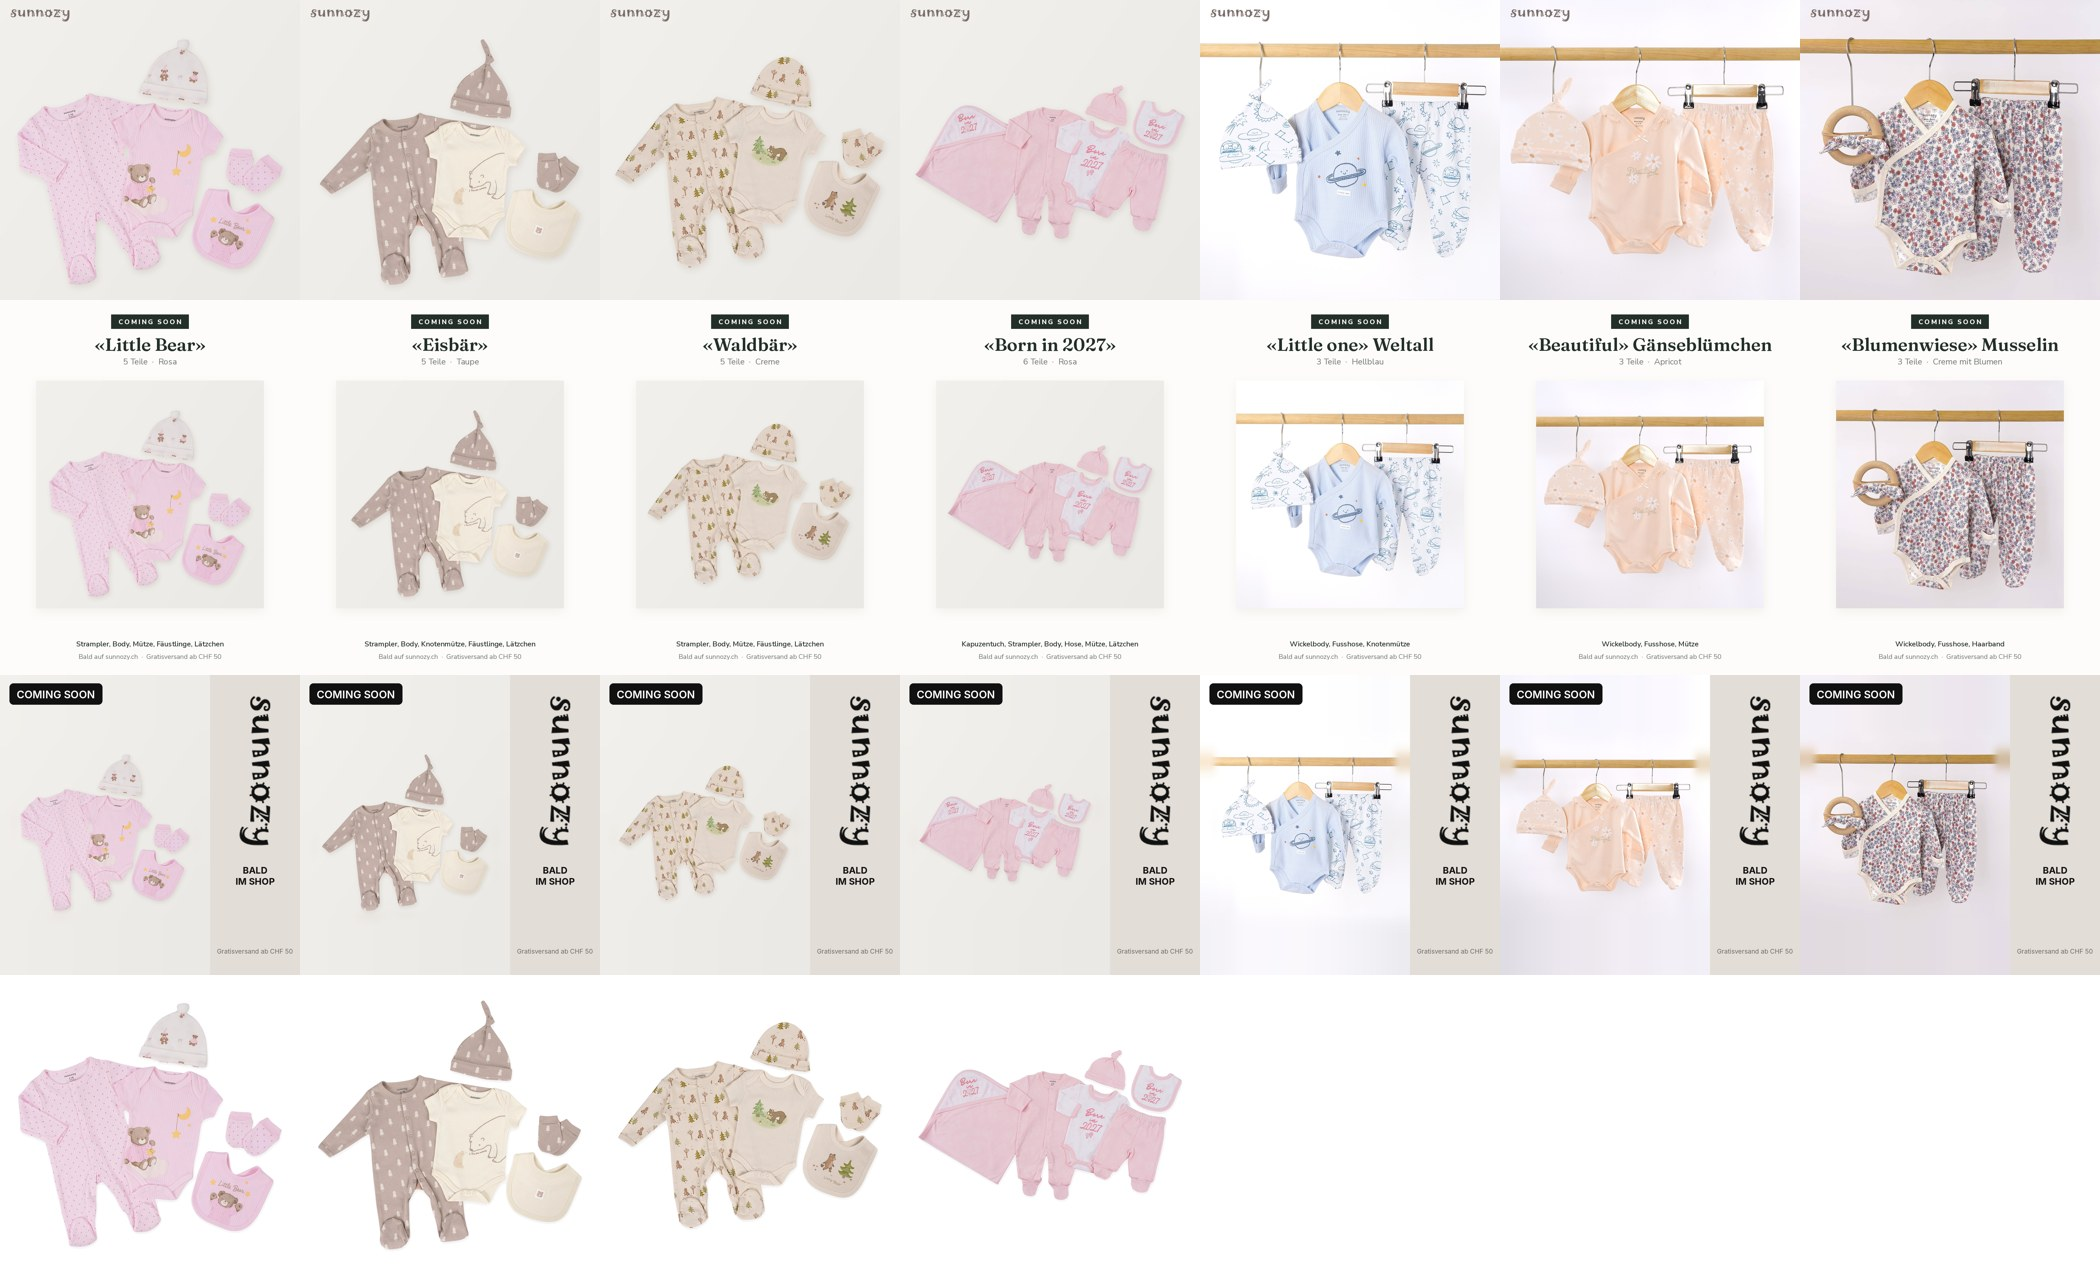
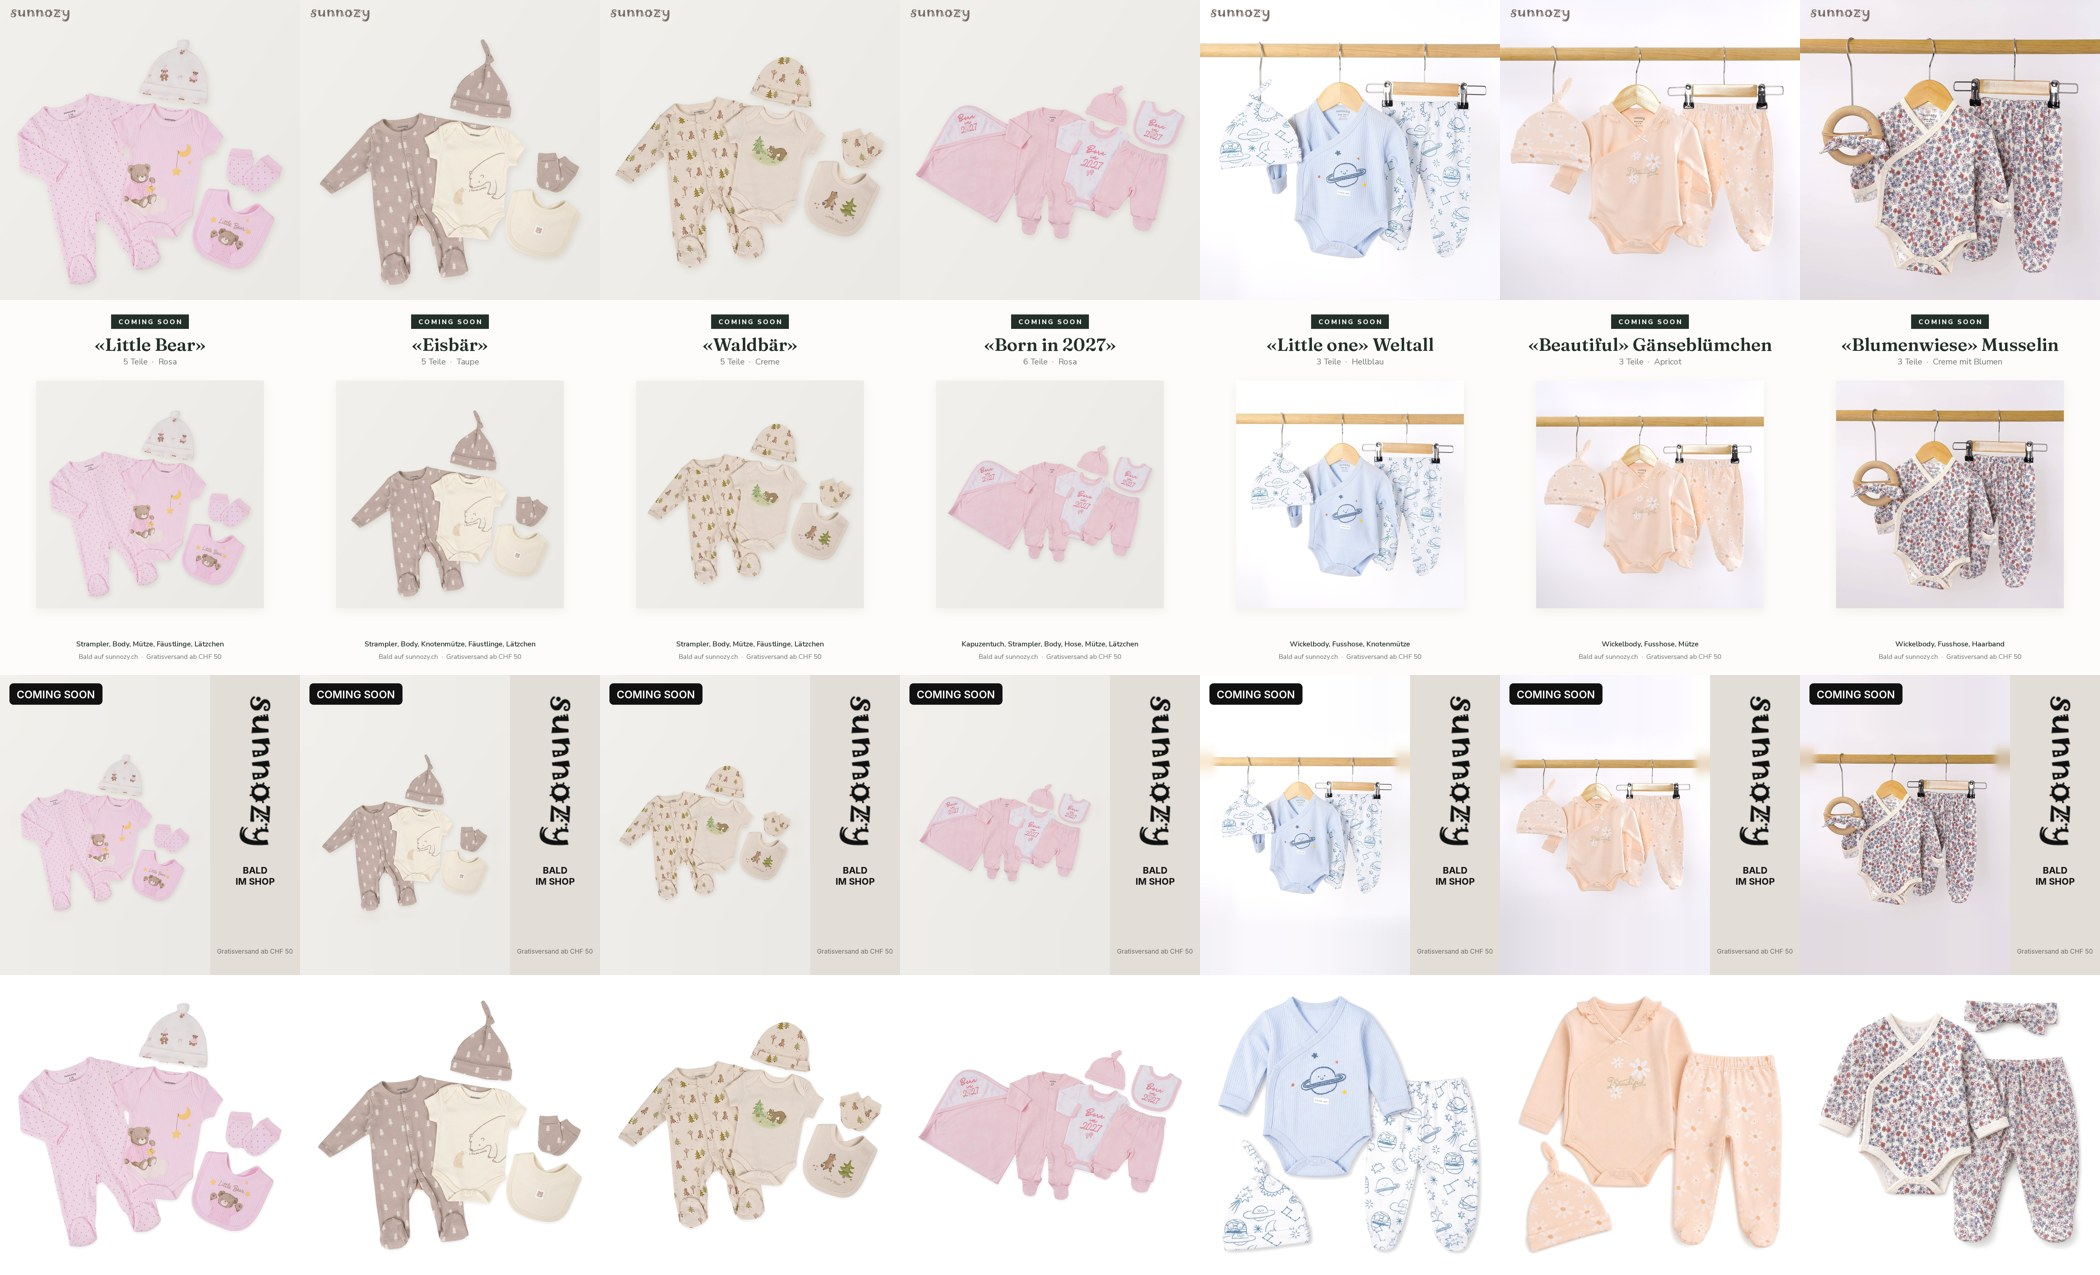
Coming soon: Präsentationen, Baby-Fotos, Baby-Anzeigen und Marktplatz-Bilder (Canva-KI) für die 7 neuen Sets
Claude-Session: https://claude.ai/code/session_01Mcsz2CcqhytaxPLftYR6o2

Changed region(s): [[0.5571, 0.7647, 0.9905, 0.9788]]

diff --git a/sunnozy-content/tools/make_coming_soon_set.py b/sunnozy-content/tools/make_coming_soon_set.py
@@ -14,7 +14,14 @@ Danach je Set:
   ads/<set>_meta_9x16.jpg        Story/Reels-Platzierung
 Look nach dem sunnozy-Designsystem: Creme, Waldgruen, Salbei, Fraunces und Nunito Sans, keine Emojis.
 
-Aufruf: python3 make_coming_soon_set.py <set-schluessel> <ausgabeordner>
+Mit KI=<ordner> (Canva-Export: praes_<set>.png, baby_<set>.png, markt_<set>.png) zusaetzlich:
+  praesentation/<set>_praesentation.jpg (+ _ohne_logo)  Holzbuegel-Praesentation 2048 px, Logo oben links
+  marktplatz/<set>_hauptbild_weiss.jpg                   nur Stangen-Sets: KI-Flatlay auf reinweiss 2000 px
+  instagram/<set>_baby_4x5.jpg                           Baby im Set, ohne Text
+  instagram/<set>_baby_coming_soon_4x5.jpg               dasselbe mit Etikett «Coming soon» und Setname
+  ads/<set>_meta_baby_4x5.jpg                            Meta-Feed 4:5 mit Baby-Foto und Versand-Band
+
+Aufruf: [FREI=<ordner>] [KI=<ordner>] python3 make_coming_soon_set.py <set-schluessel> <ausgabeordner>
 """
 import os, sys
 import numpy as np
@@ -206,6 +213,46 @@ def meta_story(foto, W=1080, H=1920):
     return c
 
 
+def weiss_hauptbild(png, S=2000, fill=0.88):
+    """KI-Flatlay auf (fast) weissem Grund -> reinweiss 255, Produkt auf 88 % der laengeren Seite."""
+    a = np.asarray(Image.open(png).convert('RGB')).astype(float)
+    mn = a.min(axis=2)
+    w = np.clip((mn - 236) / (250 - 236), 0, 1)[..., None]          # 236..250 weich nach 255 ziehen
+    a = a * (1 - w) + 255 * w
+    im = Image.fromarray(a.astype(np.uint8))
+    ys, xs = np.where(np.asarray(im.convert('L')) < 248)
+    im = im.crop((xs.min(), ys.min(), xs.max() + 1, ys.max() + 1))
+    k = S * fill / max(im.size)
+    im = im.resize((round(im.width * k), round(im.height * k)), Image.LANCZOS)
+    c = Image.new('RGB', (S, S), (255, 255, 255)); c.paste(im, ((S - im.width) // 2, (S - im.height) // 2))
+    return c.filter(ImageFilter.UnsharpMask(radius=1.2, percent=40, threshold=3))
+
+
+def baby_coming_soon(st, baby, W=1080, H=1350):
+    c = baby.resize((W, H), Image.LANCZOS).filter(ImageFilter.UnsharpMask(radius=1.0, percent=40, threshold=2))
+    lay = Image.new('RGBA', (W, H), (0, 0, 0, 0)); d = ImageDraw.Draw(lay)
+    bw, bh = 640, 190; x0, y0 = (W - bw) / 2, H - 60 - bh
+    d.rectangle([x0, y0, x0 + bw, y0 + bh], fill=CREME + (238,))
+    c = Image.alpha_composite(c.convert('RGBA'), lay).convert('RGB'); d = ImageDraw.Draw(c)
+    stempel(d, (W / 2, y0 + 48), groesse=20)
+    d.text((W / 2, y0 + 112), st['titel'], font=f('fraunces-600.ttf', 50), fill=WALD, anchor='mm')
+    d.text((W / 2, y0 + 160), 'Bald auf sunnozy.ch', font=f('nunitosans-400.ttf', 24), fill=GRAU, anchor='mm')
+    return c
+
+
+def meta_baby(baby, W=1080, H=1350):
+    c = Image.new('RGB', (W, H), 'white'); band = 1150
+    b = baby.resize((W, round(baby.height * W / baby.width)), Image.LANCZOS)
+    c.paste(b.crop((0, (b.height - band) // 2, W, (b.height - band) // 2 + band)), (0, 0))
+    badge(c, (34, 30), 'COMING SOON')
+    d = ImageDraw.Draw(c); d.rectangle([0, band, W, H], fill=PANEL)
+    lg = logo(250, INK); c.paste(lg, (50, int(band + (H - band - lg.height) / 2)), lg)
+    fb = ImageFont.truetype(INTER.format('Bold'), 32); fs = ImageFont.truetype(INTER.format('Regular'), 23)
+    d.text((W - 50, band + 78), 'BALD IM SHOP', font=fb, fill=INK, anchor='rm')
+    d.text((W - 50, band + 128), 'Gratisversand ab CHF 50', font=fs, fill=PGRAU, anchor='rm')
+    return c
+
+
 if __name__ == '__main__':
     key, out = sys.argv[1:3]
     frei_dir = os.environ.get('FREI', '')
@@ -222,4 +269,18 @@ if __name__ == '__main__':
     story(st, roh).save(os.path.join(out, 'instagram', f'{key}_story_9x16.jpg'), quality=94)
     meta_karte(roh).save(os.path.join(out, 'ads', f'{key}_meta_1x1.jpg'), quality=95, subsampling=0)
     meta_story(roh).save(os.path.join(out, 'ads', f'{key}_meta_9x16.jpg'), quality=95, subsampling=0)
+    ki = os.environ.get('KI', '')
+    if ki:
+        os.makedirs(os.path.join(out, 'praesentation'), exist_ok=True)
+        pr = Image.open(os.path.join(ki, f'praes_{key}.png')).convert('RGB').filter(ImageFilter.UnsharpMask(radius=1.4, percent=45, threshold=2))
+        pr.save(os.path.join(out, 'praesentation', f'{key}_praesentation_ohne_logo.jpg'), quality=95)
+        mit_logo(pr).save(os.path.join(out, 'praesentation', f'{key}_praesentation.jpg'), quality=95)
+        mk = os.path.join(ki, f'markt_{key}.png')
+        if os.path.exists(mk):
+            os.makedirs(os.path.join(out, 'marktplatz'), exist_ok=True)
+            weiss_hauptbild(mk).save(os.path.join(out, 'marktplatz', f'{key}_hauptbild_weiss.jpg'), quality=95)
+        baby = Image.open(os.path.join(ki, f'baby_{key}.png')).convert('RGB')
+        baby.resize((1080, 1350), Image.LANCZOS).save(os.path.join(out, 'instagram', f'{key}_baby_4x5.jpg'), quality=94)
+        baby_coming_soon(st, baby).save(os.path.join(out, 'instagram', f'{key}_baby_coming_soon_4x5.jpg'), quality=94)
+        meta_baby(baby).save(os.path.join(out, 'ads', f'{key}_meta_baby_4x5.jpg'), quality=95, subsampling=0)
     print(key)

diff --git a/sunnozy-content/posts/coming-soon/README.md b/sunnozy-content/posts/coming-soon/README.md
@@ -4,16 +4,16 @@
 |---|---|---|
 | `little-princess/` | «Little Princess» mit Krone, 8 Teile | Videos A–C und Kombi-Video, je 9:16 und 4:5 |
 | `gaensebluemchen/` | «Gänseblümchen», 8 Teile | Videos A–C, je 9:16 und 4:5 |
-| `little-bear-rosa/` | «Little Bear» Rosa, 5 Teile | Shop, Marktplatz, Einzelteile, Instagram, Meta-Ads |
-| `eisbaer-taupe/` | «Eisbär» Taupe, 5 Teile | Shop, Marktplatz, Einzelteile, Instagram, Meta-Ads |
-| `waldbaer-creme/` | «Waldbär» Creme, 5 Teile | Shop, Marktplatz, Einzelteile, Instagram, Meta-Ads |
-| `born-in-2027-rosa/` | «Born in 2027» Rosa, 6 Teile | Shop, Marktplatz, Einzelteile, Instagram, Meta-Ads |
-| `weltall-hellblau/` | «Little one» Weltall, 3 Teile | Shop, Instagram, Meta-Ads |
-| `gaensebluemchen-beautiful/` | «Beautiful» Gänseblümchen, 3 Teile | Shop, Instagram, Meta-Ads |
-| `blumen-musselin/` | «Blumenwiese» Musselin, 3 Teile | Shop, Instagram, Meta-Ads |
+| `little-bear-rosa/` | «Little Bear» Rosa, 5 Teile | Shop, Präsentation, Marktplatz, Einzelteile, Instagram, Baby-Fotos, Meta-Ads |
+| `eisbaer-taupe/` | «Eisbär» Taupe, 5 Teile | Shop, Präsentation, Marktplatz, Einzelteile, Instagram, Baby-Fotos, Meta-Ads |
+| `waldbaer-creme/` | «Waldbär» Creme, 5 Teile | Shop, Präsentation, Marktplatz, Einzelteile, Instagram, Baby-Fotos, Meta-Ads |
+| `born-in-2027-rosa/` | «Born in 2027» Rosa, 6 Teile | Shop, Präsentation, Marktplatz, Einzelteile, Instagram, Baby-Fotos, Meta-Ads |
+| `weltall-hellblau/` | «Little one» Weltall, 3 Teile | Shop, Präsentation, Marktplatz, Instagram, Baby-Fotos, Meta-Ads |
+| `gaensebluemchen-beautiful/` | «Beautiful» Gänseblümchen, 3 Teile | Shop, Präsentation, Marktplatz, Instagram, Baby-Fotos, Meta-Ads |
+| `blumen-musselin/` | «Blumenwiese» Musselin, 3 Teile | Shop, Präsentation, Marktplatz, Instagram, Baby-Fotos, Meta-Ads |
 | `originalFotos/` | Lieferantenfotos aller neuen Sets | Liste im README |
 
-`uebersicht_neue_sets.jpg` zeigt Shop-Bild, Instagram-Post und Meta-Anzeige der 7 neuen Sets.
+`uebersicht_neue_sets.jpg` zeigt Shop-Bild, Instagram-Post, Meta-Anzeige und Marktplatz-Bild der 7 neuen Sets, `uebersicht_ki.jpg` Präsentation, Baby-Post und Baby-Anzeige.
 
 In jedem Ordner: `original/` mit den Baby-Clips, die Videos, Titelbilder (`*_standbild.jpg`), `uebersicht.jpg` und ein README mit Bildunterschrift und Prüfpunkten. Sobald ein Set im Shop ist, die Videos mit Preis neu erzeugen (Befehl im README des Sets).
 

diff --git a/sunnozy-content/posts/coming-soon/gaensebluemchen-beautiful/README.md b/sunnozy-content/posts/coming-soon/gaensebluemchen-beautiful/README.md
@@ -5,10 +5,14 @@
 | Ordner | Inhalt |
 |---|---|
 | `shop/` | Shop-Hauptbild 2048×2048 mit sunnozy-Logo oben links (`*_shop.jpg`) und ohne Logo (`*_shop_ohne_logo.jpg`) |
-| `marktplatz/` | fehlt noch: Das Foto zeigt die Teile an der Kleiderstange. Das Hauptbild auf Reinweiss ohne Bügel braucht die Canva-KI |
+| `marktplatz/` | Hauptbild Galaxus/Amazon auf Reinweiss 2000×2000 (`*_hauptbild_weiss.jpg`), KI-Flatlay aus dem Stangenfoto |
 | `instagram/` | Feed-Post 4:5 und Story 9:16 mit «Coming soon», Setname, Teile-Liste, «Bald auf sunnozy.ch» |
 | `ads/` | Meta-Anzeige 1:1 (Karussell) und 9:16 (Story/Reels) im Stil der Erstausstattungs-Anzeigen, Etikett «Coming soon», «Bald im Shop» |
 
-**Noch offen (Canva-KI war gesperrt):** Präsentation mit Holzbügel und Baby-Fotos mit dem Set.
+| `praesentation/` | Holzbügel-Präsentation im Stil der Shop-Hauptbilder, 2048 px, mit und ohne Logo (KI) |
+| `instagram/*_baby_*` | Baby im Set, 4:5, ohne Text und mit Etikett «Coming soon» (KI) |
+| `ads/*_meta_baby_4x5.jpg` | Meta-Feed 4:5 mit Baby-Foto, «Coming soon», «Bald im Shop» (KI) |
+
+**KI-Bilder prüfen:** Präsentation, Baby-Fotos und das KI-Flatlay sind mit Canva-KI aus dem echten Foto erstellt. Prints, Schriften und Farben mit dem echten Set vergleichen. Beim Posten der Baby-Fotos auf Instagram/Facebook «Mit KI erstellt» einschalten. `shop/` und `marktplatz/` der Flatlay-Sets zeigen das echte Foto.
 
 Erstellt mit `tools/make_coming_soon_set.py gaensebluemchen-beautiful`.

diff --git a/sunnozy-content/posts/coming-soon/weltall-hellblau/README.md b/sunnozy-content/posts/coming-soon/weltall-hellblau/README.md
@@ -5,10 +5,14 @@
 | Ordner | Inhalt |
 |---|---|
 | `shop/` | Shop-Hauptbild 2048×2048 mit sunnozy-Logo oben links (`*_shop.jpg`) und ohne Logo (`*_shop_ohne_logo.jpg`) |
-| `marktplatz/` | fehlt noch: Das Foto zeigt die Teile an der Kleiderstange. Das Hauptbild auf Reinweiss ohne Bügel braucht die Canva-KI |
+| `marktplatz/` | Hauptbild Galaxus/Amazon auf Reinweiss 2000×2000 (`*_hauptbild_weiss.jpg`), KI-Flatlay aus dem Stangenfoto |
 | `instagram/` | Feed-Post 4:5 und Story 9:16 mit «Coming soon», Setname, Teile-Liste, «Bald auf sunnozy.ch» |
 | `ads/` | Meta-Anzeige 1:1 (Karussell) und 9:16 (Story/Reels) im Stil der Erstausstattungs-Anzeigen, Etikett «Coming soon», «Bald im Shop» |
 
-**Noch offen (Canva-KI war gesperrt):** Präsentation mit Holzbügel und Baby-Fotos mit dem Set.
+| `praesentation/` | Holzbügel-Präsentation im Stil der Shop-Hauptbilder, 2048 px, mit und ohne Logo (KI) |
+| `instagram/*_baby_*` | Baby im Set, 4:5, ohne Text und mit Etikett «Coming soon» (KI) |
+| `ads/*_meta_baby_4x5.jpg` | Meta-Feed 4:5 mit Baby-Foto, «Coming soon», «Bald im Shop» (KI) |
+
+**KI-Bilder prüfen:** Präsentation, Baby-Fotos und das KI-Flatlay sind mit Canva-KI aus dem echten Foto erstellt. Prints, Schriften und Farben mit dem echten Set vergleichen. Beim Posten der Baby-Fotos auf Instagram/Facebook «Mit KI erstellt» einschalten. `shop/` und `marktplatz/` der Flatlay-Sets zeigen das echte Foto.
 
 Erstellt mit `tools/make_coming_soon_set.py weltall-hellblau`.

diff --git a/sunnozy-content/posts/coming-soon/blumen-musselin/README.md b/sunnozy-content/posts/coming-soon/blumen-musselin/README.md
@@ -5,10 +5,14 @@
 | Ordner | Inhalt |
 |---|---|
 | `shop/` | Shop-Hauptbild 2048×2048 mit sunnozy-Logo oben links (`*_shop.jpg`) und ohne Logo (`*_shop_ohne_logo.jpg`) |
-| `marktplatz/` | fehlt noch: Das Foto zeigt die Teile an der Kleiderstange. Das Hauptbild auf Reinweiss ohne Bügel braucht die Canva-KI |
+| `marktplatz/` | Hauptbild Galaxus/Amazon auf Reinweiss 2000×2000 (`*_hauptbild_weiss.jpg`), KI-Flatlay aus dem Stangenfoto |
 | `instagram/` | Feed-Post 4:5 und Story 9:16 mit «Coming soon», Setname, Teile-Liste, «Bald auf sunnozy.ch» |
 | `ads/` | Meta-Anzeige 1:1 (Karussell) und 9:16 (Story/Reels) im Stil der Erstausstattungs-Anzeigen, Etikett «Coming soon», «Bald im Shop» |
 
-**Noch offen (Canva-KI war gesperrt):** Präsentation mit Holzbügel und Baby-Fotos mit dem Set.
+| `praesentation/` | Holzbügel-Präsentation im Stil der Shop-Hauptbilder, 2048 px, mit und ohne Logo (KI) |
+| `instagram/*_baby_*` | Baby im Set, 4:5, ohne Text und mit Etikett «Coming soon» (KI) |
+| `ads/*_meta_baby_4x5.jpg` | Meta-Feed 4:5 mit Baby-Foto, «Coming soon», «Bald im Shop» (KI) |
+
+**KI-Bilder prüfen:** Präsentation, Baby-Fotos und das KI-Flatlay sind mit Canva-KI aus dem echten Foto erstellt. Prints, Schriften und Farben mit dem echten Set vergleichen. Beim Posten der Baby-Fotos auf Instagram/Facebook «Mit KI erstellt» einschalten. `shop/` und `marktplatz/` der Flatlay-Sets zeigen das echte Foto.
 
 Erstellt mit `tools/make_coming_soon_set.py blumen-musselin`.

diff --git a/sunnozy-content/posts/coming-soon/born-in-2027-rosa/README.md b/sunnozy-content/posts/coming-soon/born-in-2027-rosa/README.md
@@ -9,6 +9,10 @@
 | `instagram/` | Feed-Post 4:5 und Story 9:16 mit «Coming soon», Setname, Teile-Liste, «Bald auf sunnozy.ch» |
 | `ads/` | Meta-Anzeige 1:1 (Karussell) und 9:16 (Story/Reels) im Stil der Erstausstattungs-Anzeigen, Etikett «Coming soon», «Bald im Shop» |
 
-**Noch offen (Canva-KI war gesperrt):** Präsentation mit Holzbügel und Baby-Fotos mit dem Set.
+| `praesentation/` | Holzbügel-Präsentation im Stil der Shop-Hauptbilder, 2048 px, mit und ohne Logo (KI) |
+| `instagram/*_baby_*` | Baby im Set, 4:5, ohne Text und mit Etikett «Coming soon» (KI) |
+| `ads/*_meta_baby_4x5.jpg` | Meta-Feed 4:5 mit Baby-Foto, «Coming soon», «Bald im Shop» (KI) |
+
+**KI-Bilder prüfen:** Präsentation, Baby-Fotos und das KI-Flatlay sind mit Canva-KI aus dem echten Foto erstellt. Prints, Schriften und Farben mit dem echten Set vergleichen. Beim Posten der Baby-Fotos auf Instagram/Facebook «Mit KI erstellt» einschalten. `shop/` und `marktplatz/` der Flatlay-Sets zeigen das echte Foto.
 
 Erstellt mit `tools/make_coming_soon_set.py born-in-2027-rosa`.

diff --git a/sunnozy-content/posts/coming-soon/little-bear-rosa/README.md b/sunnozy-content/posts/coming-soon/little-bear-rosa/README.md
@@ -9,6 +9,10 @@
 | `instagram/` | Feed-Post 4:5 und Story 9:16 mit «Coming soon», Setname, Teile-Liste, «Bald auf sunnozy.ch» |
 | `ads/` | Meta-Anzeige 1:1 (Karussell) und 9:16 (Story/Reels) im Stil der Erstausstattungs-Anzeigen, Etikett «Coming soon», «Bald im Shop» |
 
-**Noch offen (Canva-KI war gesperrt):** Präsentation mit Holzbügel und Baby-Fotos mit dem Set.
+| `praesentation/` | Holzbügel-Präsentation im Stil der Shop-Hauptbilder, 2048 px, mit und ohne Logo (KI) |
+| `instagram/*_baby_*` | Baby im Set, 4:5, ohne Text und mit Etikett «Coming soon» (KI) |
+| `ads/*_meta_baby_4x5.jpg` | Meta-Feed 4:5 mit Baby-Foto, «Coming soon», «Bald im Shop» (KI) |
+
+**KI-Bilder prüfen:** Präsentation, Baby-Fotos und das KI-Flatlay sind mit Canva-KI aus dem echten Foto erstellt. Prints, Schriften und Farben mit dem echten Set vergleichen. Beim Posten der Baby-Fotos auf Instagram/Facebook «Mit KI erstellt» einschalten. `shop/` und `marktplatz/` der Flatlay-Sets zeigen das echte Foto.
 
 Erstellt mit `tools/make_coming_soon_set.py little-bear-rosa`.

diff --git a/sunnozy-content/posts/coming-soon/waldbaer-creme/README.md b/sunnozy-content/posts/coming-soon/waldbaer-creme/README.md
@@ -9,6 +9,10 @@
 | `instagram/` | Feed-Post 4:5 und Story 9:16 mit «Coming soon», Setname, Teile-Liste, «Bald auf sunnozy.ch» |
 | `ads/` | Meta-Anzeige 1:1 (Karussell) und 9:16 (Story/Reels) im Stil der Erstausstattungs-Anzeigen, Etikett «Coming soon», «Bald im Shop» |
 
-**Noch offen (Canva-KI war gesperrt):** Präsentation mit Holzbügel und Baby-Fotos mit dem Set.
+| `praesentation/` | Holzbügel-Präsentation im Stil der Shop-Hauptbilder, 2048 px, mit und ohne Logo (KI) |
+| `instagram/*_baby_*` | Baby im Set, 4:5, ohne Text und mit Etikett «Coming soon» (KI) |
+| `ads/*_meta_baby_4x5.jpg` | Meta-Feed 4:5 mit Baby-Foto, «Coming soon», «Bald im Shop» (KI) |
+
+**KI-Bilder prüfen:** Präsentation, Baby-Fotos und das KI-Flatlay sind mit Canva-KI aus dem echten Foto erstellt. Prints, Schriften und Farben mit dem echten Set vergleichen. Beim Posten der Baby-Fotos auf Instagram/Facebook «Mit KI erstellt» einschalten. `shop/` und `marktplatz/` der Flatlay-Sets zeigen das echte Foto.
 
 Erstellt mit `tools/make_coming_soon_set.py waldbaer-creme`.

diff --git a/sunnozy-content/posts/coming-soon/eisbaer-taupe/README.md b/sunnozy-content/posts/coming-soon/eisbaer-taupe/README.md
@@ -9,6 +9,10 @@
 | `instagram/` | Feed-Post 4:5 und Story 9:16 mit «Coming soon», Setname, Teile-Liste, «Bald auf sunnozy.ch» |
 | `ads/` | Meta-Anzeige 1:1 (Karussell) und 9:16 (Story/Reels) im Stil der Erstausstattungs-Anzeigen, Etikett «Coming soon», «Bald im Shop» |
 
-**Noch offen (Canva-KI war gesperrt):** Präsentation mit Holzbügel und Baby-Fotos mit dem Set.
+| `praesentation/` | Holzbügel-Präsentation im Stil der Shop-Hauptbilder, 2048 px, mit und ohne Logo (KI) |
+| `instagram/*_baby_*` | Baby im Set, 4:5, ohne Text und mit Etikett «Coming soon» (KI) |
+| `ads/*_meta_baby_4x5.jpg` | Meta-Feed 4:5 mit Baby-Foto, «Coming soon», «Bald im Shop» (KI) |
+
+**KI-Bilder prüfen:** Präsentation, Baby-Fotos und das KI-Flatlay sind mit Canva-KI aus dem echten Foto erstellt. Prints, Schriften und Farben mit dem echten Set vergleichen. Beim Posten der Baby-Fotos auf Instagram/Facebook «Mit KI erstellt» einschalten. `shop/` und `marktplatz/` der Flatlay-Sets zeigen das echte Foto.
 
 Erstellt mit `tools/make_coming_soon_set.py eisbaer-taupe`.
